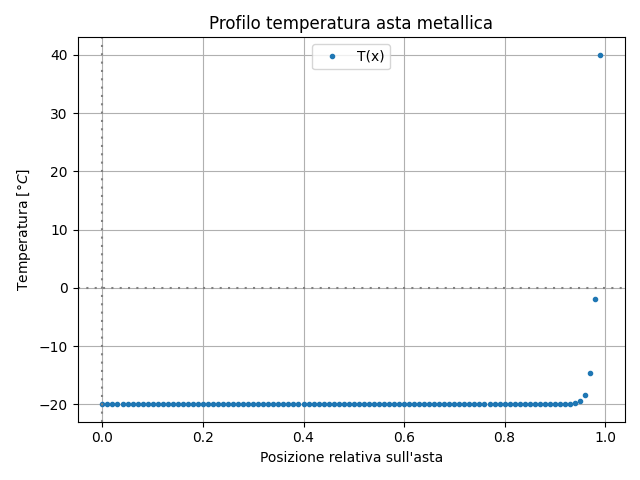
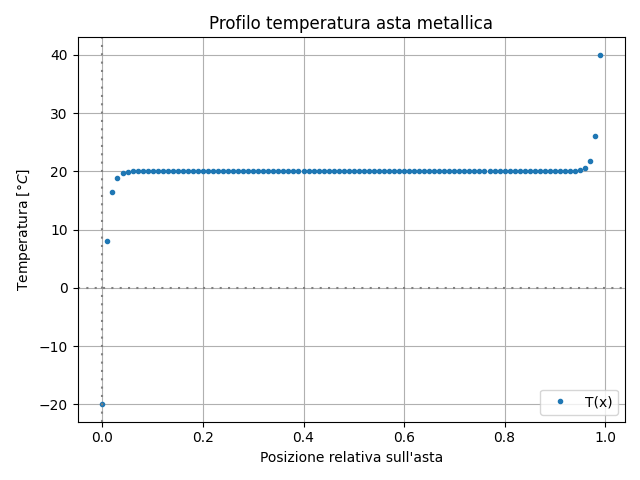
update

diff --git a/esercizi_laboratorio/profilo_temperatura/python_integratore.py b/esercizi_laboratorio/profilo_temperatura/python_integratore.py
@@ -1,0 +1,99 @@
+""" ------------------------------------------
+Classe per l'integrazione del profilo di 
+temperatura
+L'algoritmo è stato adattato per lo 
+specifico esercizio
+------------------------------------------ """
+import numpy as np
+
+import python_parameter_setter as parameter_setter
+
+
+class EdoCondizioniContorno:
+    
+    def __init__(self, classPar = None):
+        self.dataPar = classPar
+        self.lunghezzaIntervallo = None
+        
+        self.Y = []
+        self.F = []
+        self.M = None
+        self.invertedM = None
+        
+        #la nostra equazione differenziale presente dei coefficienti
+        #costanti che non dipendono da x
+        self.adix = None
+        self.bdix = None
+        self.cdix = None
+        self.fdix = None
+        
+        #dai coefficienti costanti ricaviamo che anche le matrici L,D,U lo sono
+        self.LMatrix = None
+        self.DMatrix = None
+        self.UMatrix = None
+    
+    
+    def setCoeff(self):
+        self.adix = self.dataPar.ConducibilitaTermica / (self.dataPar.CapacitaTermica
+        * self.dataPar.DensitaAcciaio)
+        self.bdix = 0
+        self.cdix = - (2 * self.dataPar.constH) / (self.dataPar.CapacitaTermica
+        * self.dataPar.DensitaAcciaio
+        * self.dataPar.Raggio)
+        self.fdix = - (2 * self.dataPar.constH * self.dataPar.TemperaturaAmb) \
+        / (self.dataPar.CapacitaTermica * self.dataPar.DensitaAcciaio
+        * self.dataPar.Raggio)
+    
+    
+    def setMatrixLDU(self):
+        self.lunghezzaIntervallo = self.dataPar.LunghezzaAsta / ( self.dataPar.NumeroIntervalli -1 )
+        
+        self.LMatrix = (self.adix / (self.lunghezzaIntervallo**2) ) - (self.bdix / (2*self.lunghezzaIntervallo) )
+        self.DMatrix = - ( (2*self.adix) / (self.lunghezzaIntervallo**2) ) + self.cdix
+        self.UMatrix = ( self.adix / (self.lunghezzaIntervallo**2) ) + ( self.bdix / (2*self.lunghezzaIntervallo) )
+    
+    
+    
+    #	def breakTheY(self){
+    #		self.lunghezzaIntervallo = self.dataPar.LunghezzaAsta \
+    #									/ (self.dataPar.NumeroIntervalli -1)
+    #
+    #		for i in range(self.dataPar.NumeroIntervalli){
+    #			self.Y.append( i*self.lunghezzaIntervallo )
+    #		}		
+    #	}
+    
+    def matrixBuilder(self):
+        self.M = np.zeros((self.dataPar.NumeroIntervalli, self.dataPar.NumeroIntervalli))
+        
+        self.M[0,0] = 1
+        self.M[self.dataPar.NumeroIntervalli-1, self.dataPar.NumeroIntervalli-1] = 1
+        
+        for i in range(1, self.dataPar.NumeroIntervalli-1):
+            self.M[i,i-1] = self.LMatrix
+            self.M[i,i]   = self.DMatrix
+            self.M[i,i+1] = self.UMatrix
+        
+        
+        self.invertedM = np.linalg.inv(self.M)
+    
+    
+    #si applicano a questa le condizioni di Dirichlet
+    def forceBuilder(self):
+        self.F.append(self.dataPar.TemperaturaA)
+        for i in range(1, self.dataPar.NumeroIntervalli-1):
+            self.F.append(self.fdix)
+        
+        self.F.append(self.dataPar.TemperaturaB)
+    
+    
+    def TheOneToCallToIntegrate(self):
+        self.setCoeff()
+        self.setMatrixLDU()
+        self.matrixBuilder()
+        self.forceBuilder()
+        self.Y = np.dot(self.invertedM, self.F)
+    
+    
+#endclass
+

diff --git a/esercizi_laboratorio/profilo_temperatura/python_parameter_setter.py b/esercizi_laboratorio/profilo_temperatura/python_parameter_setter.py
@@ -1,0 +1,53 @@
+""" ----------------------------------------
+Classe per il setting dei parametri
+
+0 °C + 273,15 = 273,15 K
+---------------------------------------- """
+
+class ParameterSetter:
+    
+    def __init__(self):
+        
+        self.LunghezzaAsta = 2 #[m]
+        self.Raggio = 0.001 #[m]
+        
+        self.TemperaturaA   = -20 #[°C] + 273.5 #[°K]
+        self.TemperaturaB   = 40 #[°C] + 273.5  #[°K]
+        self.TemperaturaAmb = 20 #[°C] + 273.5  #[°K]
+        
+        self.NumeroIntervalli = None
+        
+        self.constH = 100 #[W m^-2 K^-1]
+        self.CapacitaTermica = 450 #[J Kg^-1 K^-1]
+        self.DensitaAcciaio = 7.8 * 10**3 #[Kg m^-3]
+        self.ConducibilitaTermica = 50 #[W m^-1 K^-1]
+    
+    
+    def parameterSetter(self):
+        
+        print(" Inserire di seguito i parametri: ")
+        
+        print(" > Lunghezza asta [m] (consigliato 2): ")
+        self.LunghezzaAsta = float( input("\t") )
+        
+        print(" > Raggio [m] (consigliato 0.001): ")
+        self.Raggio = float( input("\t") )
+        
+        print(" > Temperatura estremo A [°C] (consigliato -20°C): ")
+        self.TemperaturaA = float( input("\t") )
+        #		self.TemperaturaA = self.TemperaturaA + 273.15
+        
+        print(" > Temperatura estremo B [°C] (consigliato 40°C): ")
+        self.TemperaturaB = float( input("\t") )
+        #		self.TemperaturaB = self.TemperaturaB + 273.15
+        
+        print(" > Temperatura ambiente [°C] (consigliato 20°C): ")
+        self.TemperaturaAmb = float( input("\t") )
+        #		self.TemperaturaAmb = self.TemperaturaAmb + 273.15
+        
+        print(" > Numero di intervalli: ")
+        self.NumeroIntervalli = int( input("\t") )
+    
+    
+#endclass
+

diff --git a/esercizi_laboratorio/profilo_temperatura/python_data_plotter.py b/esercizi_laboratorio/profilo_temperatura/python_data_plotter.py
@@ -1,0 +1,42 @@
+""" ----------------------------------------------
+Classe per il plotting dei dati
+---------------------------------------------- """
+import sys
+sys.path.append("../util/")
+
+import matplotlib.pyplot as plt
+import numpy as np
+
+import python_parameter_setter as parameter_setter
+import python_integratore as integratore
+import SetGraph
+
+class DataPlotter():
+    
+    def __init__(self, param = None, integratore = None):
+        
+        self.classSetGraph = SetGraph.SetGraph()
+        self.dataPar = param
+        self.dataInt = integratore
+    #enddef
+    
+    def plotTemp(self):
+        
+        figure, ax = plt.subplots()
+        
+        ax.set_title("Profilo temperatura asta metallica")
+        ax.set_ylabel("Temperatura $[°C]$")
+        ax.set_xlabel("Posizione relativa sull'asta")
+        
+        posizioneRelativa = np.asarray( range(self.dataPar.NumeroIntervalli) ) / self.dataPar.NumeroIntervalli
+        
+        ax.plot( posizioneRelativa, self.dataInt.Y,
+        linestyle = "", marker = ".", label="T(x)")
+        
+        self.classSetGraph.makeFine(ax)
+        self.classSetGraph.setStyle(  markerSize=2 )
+        plt.show()
+    #enddef
+    
+#endclass
+

diff --git a/esercizi_laboratorio/profilo_temperatura/python_profilo_temperatura.py b/esercizi_laboratorio/profilo_temperatura/python_profilo_temperatura.py
@@ -1,0 +1,27 @@
+""" -------------------------------------------------------
+Calcolo del profilo di temperatura di una asta metallica
+------------------------------------------------------- """
+import sys
+sys.path.append("../util/")
+
+import numpy as np
+import matplotlib.pyplot as plt
+
+#import set_grahp as sg
+
+import python_parameter_setter as parameter_setter
+import python_integratore as integratore
+import python_data_plotter as data_plotter
+
+SetOfPar = parameter_setter.ParameterSetter()
+Integratore = integratore.EdoCondizioniContorno( classPar = SetOfPar)
+
+
+SetOfPar.parameterSetter()
+
+Integratore.TheOneToCallToIntegrate()
+
+
+plotter = data_plotter.DataPlotter( param=SetOfPar, integratore=Integratore)
+plotter.plotTemp()
+
